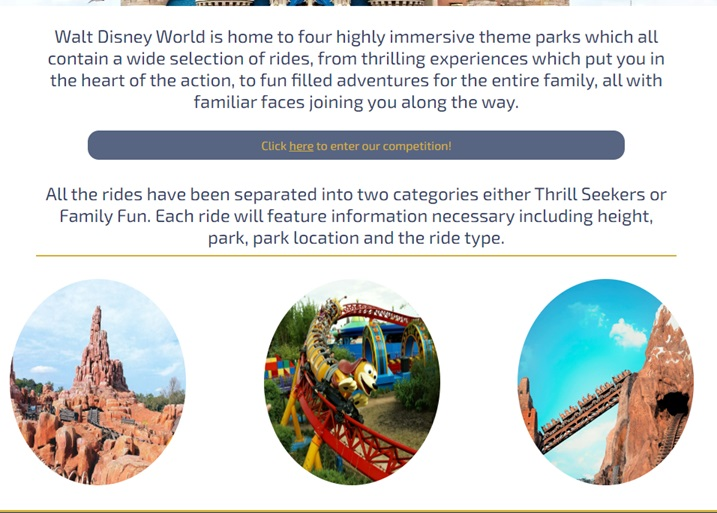
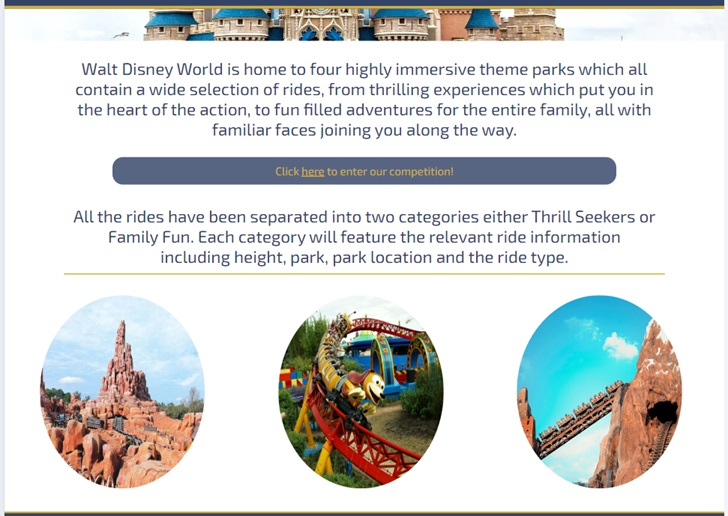
"Update README"

diff --git a/index.html b/index.html
@@ -35,11 +35,12 @@
     <header>
       <a href="index.html">
         <h1 id="logo">Ride Guide</h1>
-      </a>
-      <input type="checkbox" id="nav-toggle" name="nav-toggle">
+      </a>      
       <label for="nav-toggle" class="nav-toggle-label"
-        ><i class="fa-solid fa-bars"></i
-      ></label>
+        ><i class="fa-solid fa-bars"></i>
+        <span class="sr-only">Click to toggle mobile menu</span>      
+      </label>
+      <input type="checkbox" id="nav-toggle" name="nav-toggle">
       <nav>
         <ul id="menu">
           <li><a href="index.html" class="active">Home</a></li>
@@ -76,7 +77,7 @@
       <div id="rg-about">
         <p>
           All the rides have been separated into two categories either Thrill
-          Seekers or Family Fun. Each ride will feature information necessary
+          Seekers or Family Fun. Each category will feature the relevant ride information 
           including height, park, park location and the ride type.
         </p>
       </div>

diff --git a/thrill.html b/thrill.html
@@ -38,8 +38,9 @@
       </a>
       <input type="checkbox" id="nav-toggle" name="nav-toggle">
       <label for="nav-toggle" class="nav-toggle-label"
-        ><i class="fa-solid fa-bars"></i
-      ></label>
+        ><i class="fa-solid fa-bars"></i>
+        <span class="sr-only">Click to toggle mobile menu</span>
+      </label>
       <nav>
         <ul id="menu">
           <li><a href="index.html">Home</a></li>
@@ -60,7 +61,7 @@
       <!--About thrill rides at Walt Disney World-->
       <div id="ts-about">
         <p>
-          Walt Disney World is home to a large vareity of thrill rides for
+          Walt Disney World is home to a large variety of thrill rides for
           seasoned goers and first timers. The immersive theming of Walt Disney
           World's thrill rides transports you to other galaxies, the old west
           and even the Himalayan mountains.

diff --git a/comp.html b/comp.html
@@ -38,8 +38,9 @@
       </a>
       <input type="checkbox" id="nav-toggle" name="nav-toggle">
       <label for="nav-toggle" class="nav-toggle-label"
-        ><i class="fa-solid fa-bars"></i
-      ></label>
+        ><i class="fa-solid fa-bars"></i>
+        <span class="sr-only">Click to toggle mobile menu</span>
+      </label>
       <nav>
         <ul id="menu">
           <li><a href="index.html">Home</a></li>
@@ -102,6 +103,7 @@
           <p>What is your favourite ride at Walt Disney World?</p>          
           <input
             type="text"
+            aria-label="Enter your favourite ride"
             id="fav-ride"
             placeholder="Enter your favourite ride">
         </div>

diff --git a/thank-you.html b/thank-you.html
@@ -38,8 +38,9 @@
       </a>
       <input type="checkbox" id="nav-toggle" name="nav-toggle">
       <label for="nav-toggle" class="nav-toggle-label"
-        ><i class="fa-solid fa-bars"></i
-      ></label>
+        ><i class="fa-solid fa-bars"></i>
+        <span class="sr-only">Click to toggle mobile menu</span>
+      </label>
       <nav>
         <ul id="menu">
           <li><a href="index.html" class="active">Home</a></li>

diff --git a/family.html b/family.html
@@ -38,8 +38,9 @@
       </a>
       <input type="checkbox" id="nav-toggle" name="nav-toggle">
       <label for="nav-toggle" class="nav-toggle-label"
-        ><i class="fa-solid fa-bars"></i
-      ></label>
+        ><i class="fa-solid fa-bars"></i>
+        <span class="sr-only">Click to toggle mobile menu</span>
+      </label>
       <nav>
         <ul id="menu">
           <li><a href="index.html">Home</a></li>

diff --git a/assets/css/style.css b/assets/css/style.css
@@ -70,6 +70,16 @@ nav {
   font: 2rem;
   font-size: 150%;
 }
+
+.sr-only:not(:focus):not(:active) {
+  clip: rect(0 0 0 0); 
+  clip-path: inset(50%);
+  height: 1px;
+  overflow: hidden;
+  position: absolute;
+  white-space: nowrap; 
+  width: 1px;
+}
 /* Main Content */
 main {
   /*Make main element take up any surplus space to push footer down*/

diff --git a/README.md b/README.md
@@ -345,9 +345,17 @@ To ensure the icons on the footer opened the correct social media pages on a new
 ### Unfixed bugs
 Responsiveness of the website worked on all devices. The images on the index.html positioning needs to be address on larger screen sizes to have a better screen prescence
 
+## Deployment
+
 ### Version Control
 
 The website was created and commited using Visual Studio Code, to be then pushed by GitHub desktop to the remote repository 'ride-guide-wdw'
+
+The following git commands were used throughout development to push code to the remote repo:
+
+- git add <*file*>
+- git commit -m "commit message"
+- git push
 
 ### Deployment to GitHub Pages
 
@@ -360,6 +368,18 @@ The site was deployed to GitHub pages.
   - A newly created link to the website will be created
 
 A link to the deployed page can be found here - https://mcamish29.github.io/ride-guide-wdw/
+
+### Clone the Repository Code Locally
+
+Navigate to the GitHub Repository you want to clone to use locally on IDE:
+
+* Click on the code drop down button
+* Click on HTTPS
+* Copy the repository link to the clipboard
+* Open your IDE of choice (ensure you have git installed as it is require for next step)
+* Type git clone copied-git-url into the IDE terminal
+
+The repository has now been cloned onto local IDE for use.
 
 ## Credits
 
